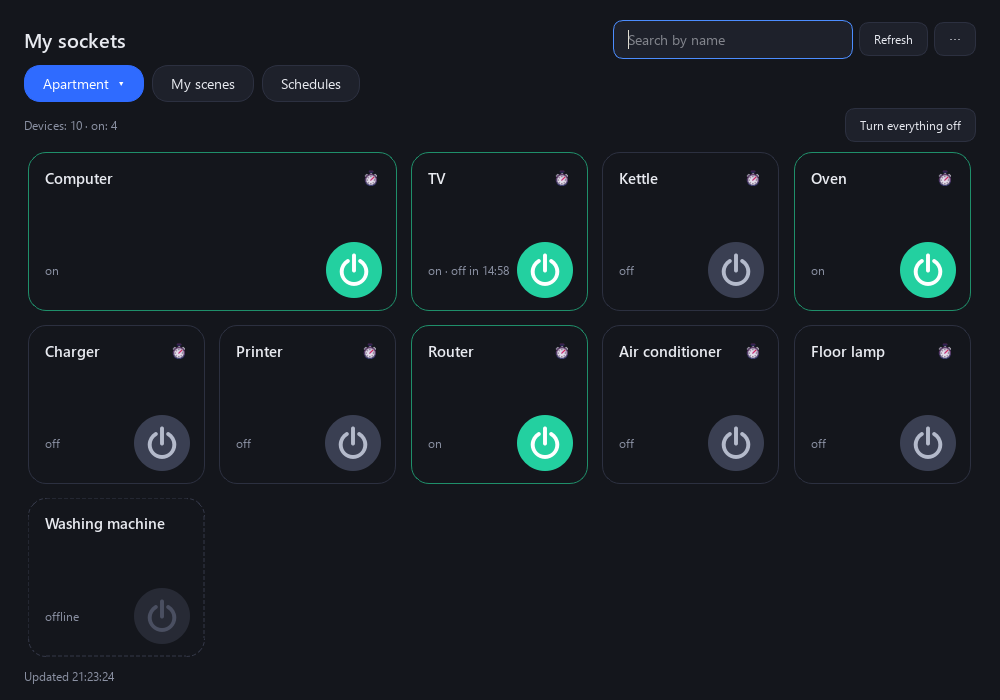
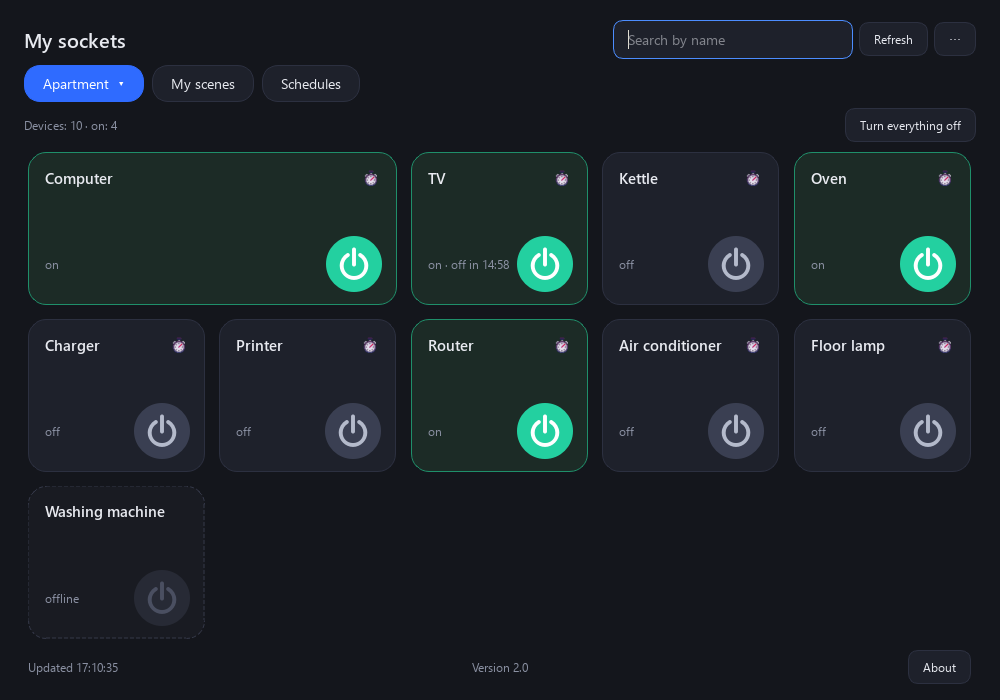
Страница Smart Life для Windows 2.0: что нового, серверный агент, свежие скриншоты

diff --git a/docs/smart-life.html b/docs/smart-life.html
@@ -129,7 +129,7 @@ button#copy{background:var(--accent);color:var(--accent-ink);border:0;border-rad
   </div>
 </footer>
 <script>
-var I18N = {"en": {"name": "Smart Life for Windows", "title": "Smart Life for Windows: control Smart Life (Tuya) sockets from a Windows window (free)", "h1": "Your Smart Life sockets in a Windows window", "lead": "Turn sockets on and off from your PC: sign in with a QR code (no password), tiles with a power button, several homes, timers, your own scenes and schedules. Free.", "dl": "Download for Windows", "gh": "View on GitHub", "back": "All programs", "dlnote": "Current version: 1.1. SmartLifeForWindows-1.1.exe. Free. Windows 10 and 11. Interface in English, Ukrainian and Russian.", "f_h": "What it does", "s_h": "How it looks", "st_h": "Getting started", "lm_h": "Limitations", "d_h": "Support the project", "d_p": "The program is free. If it is useful to you, you can support its development by card, Google Pay or USDT: the same donation page as for the other program on this site.", "d_btn": "Donation options", "c1": "Smart Life (Tuya) sockets from a window of your PC. The program is independent and not an official Tuya or Smart Life product.", "feats": [["QR sign-in", "No password: scan a QR code with the Smart Life app. The code is remembered."], ["Tiles with a power button", "Like in the phone app; wide tiles, drag to reorder, several homes, a separate window for each home."], ["Device window", "Click a tile: electricity (power, voltage, current, energy), socket timer, child lock, indicator light."], ["Timers", "Turn off in 15 minutes, 1 hour and so on, with a countdown on the tile."], ["Own scenes and schedules", "Several sockets in one click, or at a set time on chosen days."], ["Smart Life scenes", "Tap-to-run scenes from your phone app are shown and can be started."], ["Theme and language", "Auto (like Windows), light or dark theme; English, Ukrainian and Russian, by your Windows language or chosen by hand."], ["Important sockets", "Turning off a PC or router asks for confirmation."], ["Tray icon by the clock", "Favourite sockets, all sockets, “Turn everything off” and your scenes right from the tray menu; the program can start with Windows and stay in the tray."], ["Multi-channel sockets", "A socket or power strip with several channels (230 V and USB, sockets 1, 2, 3) shows a button per channel on the tile and in the device window."]], "steps": ["Download SmartLifeForWindows-1.1.exe and run it. The installer speaks your Windows language.", "On first start enter your user code (in the phone app: Me, gear icon, Account and Security, User code).", "Scan the QR code shown by the program: in Smart Life tap the scanner icon in the top corner.", "Choose your home with the button at the top and click the round button on a tile."], "lims": ["Own schedules and scenes work only while the program is running and the PC is awake. For round-the-clock work use automations inside Smart Life.", "Smart Life automations (by schedule or condition) are not given to third-party programs by Tuya: they are not shown here and keep working in the phone app.", "The order of cards in the phone app (for example Favorites) is stored inside that app and is not available: drag tiles to set your order.", "Sign-in by e-mail and password does not work for all accounts: use the QR code."], "smart": "The installer is not signed with a publisher certificate yet, so Windows may show a SmartScreen warning (\"unknown publisher\"): click \"More info\" and then \"Run anyway\" if you downloaded the file from here. The SHA-256 checksum is in the description of the release.", "note": "Smart Life for Windows is an independent project. Not affiliated with Tuya or Smart Life. Tuya and Smart Life are trademarks of their owners.", "f_rel": "All versions", "f_issue": "Report a problem", "f_src": "Source on GitHub", "f_contacts": "Contacts", "f_terms": "Terms and conditions", "f_refund": "Refund policy", "f_oferta": "Public offer", "star_btn": "⭐ Star on GitHub", "star_p": "A free way to help: put a star on the GitHub repository. It costs nothing and helps other people find the program."}, "uk": {"name": "Smart Life для Windows", "title": "Smart Life для Windows: керуйте розетками Smart Life (Tuya) з вікна Windows (безкоштовно)", "h1": "Ваші розетки Smart Life у вікні Windows", "lead": "Вмикайте й вимикайте розетки з комп’ютера: вхід за QR-кодом (без пароля), плитки з кнопкою живлення, кілька домів, таймери, власні сценарії та розклади. Безкоштовно.", "dl": "Завантажити для Windows", "gh": "Дивитися на GitHub", "back": "Усі програми", "dlnote": "Поточна версія: 1.1. SmartLifeForWindows-1.1.exe. Безкоштовно. Windows 10 і 11. Інтерфейс українською, російською та англійською.", "f_h": "Що вміє", "s_h": "Як виглядає", "st_h": "З чого почати", "lm_h": "Обмеження", "d_h": "Підтримати проєкт", "d_p": "Програма безкоштовна. Якщо вона вам корисна, можна підтримати розробку карткою, Google Pay або USDT: це та сама сторінка внесків, що й для іншої програми на цьому сайті.", "d_btn": "Способи підтримки", "c1": "Розетки Smart Life (Tuya) з вікна комп’ютера. Програма незалежна й не є офіційним продуктом Tuya чи Smart Life.", "feats": [["Вхід за QR", "Без пароля: скануйте QR-код застосунком Smart Life. Код запам’ятовується."], ["Плитки з кнопкою живлення", "Як у застосунку на телефоні; широкі плитки, перетягування, кілька домів, окреме вікно для кожного дому."], ["Вікно пристрою", "Клік по плитці: електрика (потужність, напруга, струм, енергія), таймер розетки, захист від дітей, підсвітка індикатора."], ["Таймери", "Вимкнути через 15 хвилин, 1 годину тощо, зі зворотним відліком на плитці."], ["Власні сценарії та розклади", "Кілька розеток одним кліком або в заданий час у вибрані дні."], ["Сценарії Smart Life", "Сценарії «натиснув і виконалося» з телефона видно й можна запускати."], ["Тема й мова", "Тема авто (як у Windows), світла або темна; українська, російська й англійська — за мовою Windows або вручну."], ["Важливі розетки", "Вимкнення ПК чи роутера запитує підтвердження."], ["Значок біля годинника (трей)", "Обрані розетки, усі розетки, «Вимкнути все» і власні сценарії прямо з меню біля годинника; програма може запускатися разом з Windows і жити в треї."], ["Складені розетки", "Розетка або подовжувач із кількома каналами (230 В і USB, розетки 1, 2, 3) мають кнопку на кожен канал на плитці та у вікні пристрою."]], "steps": ["Завантажте SmartLifeForWindows-1.1.exe й запустіть. Встановлювач говорить мовою Windows.", "Під час першого запуску введіть код користувача (у застосунку: Я, значок шестірні, Обліковий запис і безпека, Код користувача).", "Скануйте QR-код, який показує програма: у Smart Life натисніть значок сканера у верхньому куті.", "Оберіть дім кнопкою вгорі та натискайте круглу кнопку на плитці."], "lims": ["Власні розклади й сценарії працюють, лише поки програма запущена й комп’ютер не спить. Для цілодобової роботи користуйтеся автоматизаціями в самому Smart Life.", "Автоматизації Smart Life (за розкладом чи умовою) Tuya не віддає стороннім програмам: тут їх не видно, а в застосунку вони працюють як раніше.", "Порядок карток у застосунку (наприклад «Обране») зберігається всередині нього й недоступний: порядок плиток задається перетягуванням.", "Вхід за поштою й паролем працює не для всіх акаунтів: користуйтеся QR-кодом."], "smart": "Встановлювач ще не підписано сертифікатом видавця, тому Windows може показати попередження SmartScreen («невідомий видавець»): натисніть «Докладніше», потім «Все одно виконати», якщо ви завантажили файл звідси. Контрольну суму SHA-256 вказано в описі релізу.", "note": "Smart Life для Windows: незалежний проєкт. Не пов’язаний з Tuya чи Smart Life. Tuya і Smart Life є торговельними марками своїх власників.", "f_rel": "Усі версії", "f_issue": "Повідомити про проблему", "f_src": "Код на GitHub", "f_contacts": "Контакти", "f_terms": "Правила та умови", "f_refund": "Правила повернення коштів", "f_oferta": "Публічний договір", "star_btn": "⭐ Зірка на GitHub", "star_p": "Безкоштовний спосіб допомогти: поставте зірку репозиторію на GitHub. Це нічого не коштує й допомагає іншим знайти програму."}, "ru": {"name": "Smart Life для Windows", "title": "Smart Life для Windows: управляйте розетками Smart Life (Tuya) из окна Windows (бесплатно)", "h1": "Ваши розетки Smart Life в окне Windows", "lead": "Включайте и выключайте розетки с компьютера: вход по QR-коду (без пароля), плитки с кнопкой питания, несколько домов, таймеры, свои сценарии и расписания. Бесплатно.", "dl": "Скачать для Windows", "gh": "Смотреть на GitHub", "back": "Все программы", "dlnote": "Текущая версия: 1.1. SmartLifeForWindows-1.1.exe. Бесплатно. Windows 10 и 11. Интерфейс на русском, украинском и английском.", "f_h": "Что умеет", "s_h": "Как выглядит", "st_h": "С чего начать", "lm_h": "Ограничения", "d_h": "Поддержать проект", "d_p": "Программа бесплатная. Если она вам полезна, можно поддержать разработку картой, Google Pay или USDT: это та же страница взносов, что и для другой программы на этом сайте.", "d_btn": "Способы поддержки", "c1": "Розетки Smart Life (Tuya) из окна компьютера. Программа независимая и не является официальным продуктом Tuya или Smart Life.", "feats": [["Вход по QR", "Без пароля: отсканируйте QR-код приложением Smart Life. Код запоминается."], ["Плитки с кнопкой питания", "Как в приложении на телефоне; широкие плитки, перетаскивание, несколько домов, отдельное окно для каждого дома."], ["Окно устройства", "Клик по плитке: электричество (мощность, напряжение, ток, энергия), таймер розетки, защита от детей, подсветка индикатора."], ["Таймеры", "Выключить через 15 минут, 1 час и так далее, с обратным отсчётом на плитке."], ["Свои сценарии и расписания", "Несколько розеток одним кликом или в заданное время в выбранные дни."], ["Сценарии Smart Life", "Сценарии «нажал и выполнилось» из телефона видны и запускаются."], ["Тема и язык", "Тема авто (как в Windows), светлая или тёмная; русский, украинский и английский — по языку Windows или вручную."], ["Важные розетки", "Выключение ПК или роутера спрашивает подтверждение."], ["Значок у часов (трей)", "Избранные розетки, все розетки, «Выключить всё» и свои сценарии прямо из меню у часов; программа может запускаться вместе с Windows и жить в трее."], ["Составные розетки", "Розетка или удлинитель с несколькими каналами (230 В и USB, розетки 1, 2, 3): кнопка на каждый канал на плитке и в окне устройства."]], "steps": ["Скачайте SmartLifeForWindows-1.1.exe и запустите. Установщик говорит на языке Windows.", "При первом запуске введите код пользователя (в приложении: Я, значок шестерёнки, Учётная запись и безопасность, Код пользователя).", "Отсканируйте QR-код, который показывает программа: в Smart Life нажмите значок сканера в верхнем углу.", "Выберите дом кнопкой вверху и нажимайте круглую кнопку на плитке."], "lims": ["Свои расписания и сценарии работают, только пока программа запущена и компьютер не спит. Для круглосуточной работы используйте автоматизации в самом Smart Life.", "Автоматизации Smart Life (по расписанию или условию) Tuya не отдаёт сторонним программам: здесь их не видно, а в приложении они работают как раньше.", "Порядок карточек в приложении (например «Избранное») хранится внутри него и недоступен: порядок плиток задаётся перетаскиванием.", "Вход по почте и паролю работает не для всех аккаунтов: используйте QR-код."], "smart": "Установщик пока не подписан сертификатом издателя, поэтому Windows может показать предупреждение SmartScreen («неизвестный издатель»): нажмите «Подробнее», затем «Выполнить в любом случае», если вы скачали файл отсюда. Контрольная сумма SHA-256 указана в описании релиза.", "note": "Smart Life для Windows: независимый проект. Не связан с Tuya или Smart Life. Tuya и Smart Life являются торговыми марками своих владельцев.", "f_rel": "Все версии", "f_issue": "Сообщить о проблеме", "f_src": "Код на GitHub", "f_contacts": "Контакты", "f_terms": "Правила и условия", "f_refund": "Правила возврата средств", "f_oferta": "Публичный договор", "star_btn": "⭐ Звезда на GitHub", "star_p": "Бесплатный способ помочь: поставьте звезду репозиторию на GitHub. Это ничего не стоит и помогает другим найти программу."}};
+var I18N = {"en": {"name": "Smart Life for Windows", "title": "Smart Life for Windows: control Smart Life (Tuya) sockets from a Windows window (free)", "h1": "Your Smart Life sockets in a Windows window", "lead": "Turn sockets on and off from your PC: sign in with a QR code (no password), tiles with a power button, several homes, timers, your own scenes and schedules. Free.", "dl": "Download for Windows", "gh": "View on GitHub", "back": "All programs", "dlnote": "Current version: 2.0. SmartLifeForWindows-2.0.exe. Free. Windows 10 and 11. Interface in English, Ukrainian and Russian.", "f_h": "What it does", "s_h": "How it looks", "st_h": "Getting started", "lm_h": "Limitations", "d_h": "Support the project", "d_p": "The program is free. If it is useful to you, you can support its development by card, Google Pay or USDT: the same donation page as for the other program on this site.", "d_btn": "Donation options", "c1": "Smart Life (Tuya) sockets from a window of your PC. The program is independent and not an official Tuya or Smart Life product.", "feats": [["QR sign-in", "No password: scan a QR code with the Smart Life app. The code is remembered."], ["Tiles with a power button", "Like in the phone app; wide tiles, drag to reorder, several homes, a separate window for each home."], ["Device window", "Click a tile: electricity (power, voltage, current, energy), socket timer, child lock, indicator light."], ["Timers", "Turn off in 15 minutes, 1 hour and so on, with a countdown on the tile."], ["Own scenes and schedules", "Several sockets in one click, or at a set time on chosen days."], ["Smart Life scenes", "Tap-to-run scenes from your phone app are shown and can be started."], ["Theme and language", "Auto (like Windows), light or dark theme; English, Ukrainian and Russian, by your Windows language or chosen by hand."], ["Important sockets", "Turning off a PC or router asks for confirmation."], ["Tray icon by the clock", "Favourite sockets, all sockets, “Turn everything off” and your scenes right from the tray menu; the program can start with Windows and stay in the tray."], ["Multi-channel sockets", "A socket or power strip with several channels (230 V and USB, sockets 1, 2, 3) shows a button per channel on the tile and in the device window."], ["Device codes and energy", "A table that assigns power, voltage, current and energy for any device; consumption for a day, 7 and 30 days, cost and power protection."], ["Shortcuts and notifications", "Desktop shortcuts for sockets and scenes with a result message; Windows notifications."], ["Server agent", "Schedules, scenes and power protection keep working while the computer is off: on any server or mini computer."]], "steps": ["Download SmartLifeForWindows-2.0.exe and run it. The installer speaks your Windows language.", "On first start enter your user code (in the phone app: Me, gear icon, Account and Security, User code).", "Scan the QR code shown by the program: in Smart Life tap the scanner icon in the top corner.", "Choose your home with the button at the top and click the round button on a tile."], "lims": ["Own schedules and scenes work only while the program is running and the PC is awake. For round-the-clock work use the server agent (the Server folder) or automations inside Smart Life.", "Smart Life automations (by schedule or condition) are not given to third-party programs by Tuya: they are not shown here and keep working in the phone app.", "The order of cards in the phone app (for example Favorites) is stored inside that app and is not available: drag tiles to set your order.", "Sign-in by e-mail and password does not work for all accounts: use the QR code."], "smart": "The installer is not signed with a publisher certificate yet, so Windows may show a SmartScreen warning (\"unknown publisher\"): click \"More info\" and then \"Run anyway\" if you downloaded the file from here. The SHA-256 checksum is in the description of the release.", "note": "Smart Life for Windows is an independent project. Not affiliated with Tuya or Smart Life. Tuya and Smart Life are trademarks of their owners.", "f_rel": "All versions", "f_issue": "Report a problem", "f_src": "Source on GitHub", "f_contacts": "Contacts", "f_terms": "Terms and conditions", "f_refund": "Refund policy", "f_oferta": "Public offer", "star_btn": "⭐ Star on GitHub", "star_p": "A free way to help: put a star on the GitHub repository. It costs nothing and helps other people find the program."}, "uk": {"name": "Smart Life для Windows", "title": "Smart Life для Windows: керуйте розетками Smart Life (Tuya) з вікна Windows (безкоштовно)", "h1": "Ваші розетки Smart Life у вікні Windows", "lead": "Вмикайте й вимикайте розетки з комп’ютера: вхід за QR-кодом (без пароля), плитки з кнопкою живлення, кілька домів, таймери, власні сценарії та розклади. Безкоштовно.", "dl": "Завантажити для Windows", "gh": "Дивитися на GitHub", "back": "Усі програми", "dlnote": "Поточна версія: 2.0. SmartLifeForWindows-2.0.exe. Безкоштовно. Windows 10 і 11. Інтерфейс українською, російською та англійською.", "f_h": "Що вміє", "s_h": "Як виглядає", "st_h": "З чого почати", "lm_h": "Обмеження", "d_h": "Підтримати проєкт", "d_p": "Програма безкоштовна. Якщо вона вам корисна, можна підтримати розробку карткою, Google Pay або USDT: це та сама сторінка внесків, що й для іншої програми на цьому сайті.", "d_btn": "Способи підтримки", "c1": "Розетки Smart Life (Tuya) з вікна комп’ютера. Програма незалежна й не є офіційним продуктом Tuya чи Smart Life.", "feats": [["Вхід за QR", "Без пароля: скануйте QR-код застосунком Smart Life. Код запам’ятовується."], ["Плитки з кнопкою живлення", "Як у застосунку на телефоні; широкі плитки, перетягування, кілька домів, окреме вікно для кожного дому."], ["Вікно пристрою", "Клік по плитці: електрика (потужність, напруга, струм, енергія), таймер розетки, захист від дітей, підсвітка індикатора."], ["Таймери", "Вимкнути через 15 хвилин, 1 годину тощо, зі зворотним відліком на плитці."], ["Власні сценарії та розклади", "Кілька розеток одним кліком або в заданий час у вибрані дні."], ["Сценарії Smart Life", "Сценарії «натиснув і виконалося» з телефона видно й можна запускати."], ["Тема й мова", "Тема авто (як у Windows), світла або темна; українська, російська й англійська — за мовою Windows або вручну."], ["Важливі розетки", "Вимкнення ПК чи роутера запитує підтвердження."], ["Значок біля годинника (трей)", "Обрані розетки, усі розетки, «Вимкнути все» і власні сценарії прямо з меню біля годинника; програма може запускатися разом з Windows і жити в треї."], ["Складені розетки", "Розетка або подовжувач із кількома каналами (230 В і USB, розетки 1, 2, 3) мають кнопку на кожен канал на плитці та у вікні пристрою."], ["Коди пристрою та енергія", "Таблиця призначення потужності, напруги, струму й енергії для будь-яких пристроїв; витрата за день, 7 і 30 днів, вартість і захист за потужністю."], ["Ярлики та сповіщення", "Ярлики на робочий стіл для розеток і сценаріїв із повідомленням про результат; сповіщення Windows."], ["Серверний агент", "Розклади, сценарії та захист за потужністю працюють при вимкненому комп’ютері: на будь-якому сервері чи міні-комп’ютері."]], "steps": ["Завантажте SmartLifeForWindows-2.0.exe й запустіть. Встановлювач говорить мовою Windows.", "Під час першого запуску введіть код користувача (у застосунку: Я, значок шестірні, Обліковий запис і безпека, Код користувача).", "Скануйте QR-код, який показує програма: у Smart Life натисніть значок сканера у верхньому куті.", "Оберіть дім кнопкою вгорі та натискайте круглу кнопку на плитці."], "lims": ["Власні розклади й сценарії працюють, лише поки програма запущена й комп’ютер не спить. Для цілодобової роботи користуйтеся серверним агентом (тека «Сервер») або автоматизаціями в самому Smart Life.", "Автоматизації Smart Life (за розкладом чи умовою) Tuya не віддає стороннім програмам: тут їх не видно, а в застосунку вони працюють як раніше.", "Порядок карток у застосунку (наприклад «Обране») зберігається всередині нього й недоступний: порядок плиток задається перетягуванням.", "Вхід за поштою й паролем працює не для всіх акаунтів: користуйтеся QR-кодом."], "smart": "Встановлювач ще не підписано сертифікатом видавця, тому Windows може показати попередження SmartScreen («невідомий видавець»): натисніть «Докладніше», потім «Все одно виконати», якщо ви завантажили файл звідси. Контрольну суму SHA-256 вказано в описі релізу.", "note": "Smart Life для Windows: незалежний проєкт. Не пов’язаний з Tuya чи Smart Life. Tuya і Smart Life є торговельними марками своїх власників.", "f_rel": "Усі версії", "f_issue": "Повідомити про проблему", "f_src": "Код на GitHub", "f_contacts": "Контакти", "f_terms": "Правила та умови", "f_refund": "Правила повернення коштів", "f_oferta": "Публічний договір", "star_btn": "⭐ Зірка на GitHub", "star_p": "Безкоштовний спосіб допомогти: поставте зірку репозиторію на GitHub. Це нічого не коштує й допомагає іншим знайти програму."}, "ru": {"name": "Smart Life для Windows", "title": "Smart Life для Windows: управляйте розетками Smart Life (Tuya) из окна Windows (бесплатно)", "h1": "Ваши розетки Smart Life в окне Windows", "lead": "Включайте и выключайте розетки с компьютера: вход по QR-коду (без пароля), плитки с кнопкой питания, несколько домов, таймеры, свои сценарии и расписания. Бесплатно.", "dl": "Скачать для Windows", "gh": "Смотреть на GitHub", "back": "Все программы", "dlnote": "Текущая версия: 2.0. SmartLifeForWindows-2.0.exe. Бесплатно. Windows 10 и 11. Интерфейс на русском, украинском и английском.", "f_h": "Что умеет", "s_h": "Как выглядит", "st_h": "С чего начать", "lm_h": "Ограничения", "d_h": "Поддержать проект", "d_p": "Программа бесплатная. Если она вам полезна, можно поддержать разработку картой, Google Pay или USDT: это та же страница взносов, что и для другой программы на этом сайте.", "d_btn": "Способы поддержки", "c1": "Розетки Smart Life (Tuya) из окна компьютера. Программа независимая и не является официальным продуктом Tuya или Smart Life.", "feats": [["Вход по QR", "Без пароля: отсканируйте QR-код приложением Smart Life. Код запоминается."], ["Плитки с кнопкой питания", "Как в приложении на телефоне; широкие плитки, перетаскивание, несколько домов, отдельное окно для каждого дома."], ["Окно устройства", "Клик по плитке: электричество (мощность, напряжение, ток, энергия), таймер розетки, защита от детей, подсветка индикатора."], ["Таймеры", "Выключить через 15 минут, 1 час и так далее, с обратным отсчётом на плитке."], ["Свои сценарии и расписания", "Несколько розеток одним кликом или в заданное время в выбранные дни."], ["Сценарии Smart Life", "Сценарии «нажал и выполнилось» из телефона видны и запускаются."], ["Тема и язык", "Тема авто (как в Windows), светлая или тёмная; русский, украинский и английский — по языку Windows или вручную."], ["Важные розетки", "Выключение ПК или роутера спрашивает подтверждение."], ["Значок у часов (трей)", "Избранные розетки, все розетки, «Выключить всё» и свои сценарии прямо из меню у часов; программа может запускаться вместе с Windows и жить в трее."], ["Составные розетки", "Розетка или удлинитель с несколькими каналами (230 В и USB, розетки 1, 2, 3): кнопка на каждый канал на плитке и в окне устройства."], ["Коды устройства и энергия", "Таблица назначения мощности, напряжения, тока и энергии для любых устройств; расход за день, 7 и 30 дней, стоимость и защита по мощности."], ["Ярлыки и уведомления", "Ярлыки на рабочий стол для розеток и сценариев с сообщением о результате; уведомления Windows."], ["Серверный агент", "Расписания, сценарии и защита по мощности работают при выключенном компьютере: на любом сервере или мини-компьютере."]], "steps": ["Скачайте SmartLifeForWindows-2.0.exe и запустите. Установщик говорит на языке Windows.", "При первом запуске введите код пользователя (в приложении: Я, значок шестерёнки, Учётная запись и безопасность, Код пользователя).", "Отсканируйте QR-код, который показывает программа: в Smart Life нажмите значок сканера в верхнем углу.", "Выберите дом кнопкой вверху и нажимайте круглую кнопку на плитке."], "lims": ["Свои расписания и сценарии работают, только пока программа запущена и компьютер не спит. Для круглосуточной работы используйте серверный агент (папка «Сервер») или автоматизации в самом Smart Life.", "Автоматизации Smart Life (по расписанию или условию) Tuya не отдаёт сторонним программам: здесь их не видно, а в приложении они работают как раньше.", "Порядок карточек в приложении (например «Избранное») хранится внутри него и недоступен: порядок плиток задаётся перетаскиванием.", "Вход по почте и паролю работает не для всех аккаунтов: используйте QR-код."], "smart": "Установщик пока не подписан сертификатом издателя, поэтому Windows может показать предупреждение SmartScreen («неизвестный издатель»): нажмите «Подробнее», затем «Выполнить в любом случае», если вы скачали файл отсюда. Контрольная сумма SHA-256 указана в описании релиза.", "note": "Smart Life для Windows: независимый проект. Не связан с Tuya или Smart Life. Tuya и Smart Life являются торговыми марками своих владельцев.", "f_rel": "Все версии", "f_issue": "Сообщить о проблеме", "f_src": "Код на GitHub", "f_contacts": "Контакты", "f_terms": "Правила и условия", "f_refund": "Правила возврата средств", "f_oferta": "Публичный договор", "star_btn": "⭐ Звезда на GitHub", "star_p": "Бесплатный способ помочь: поставьте звезду репозиторию на GitHub. Это ничего не стоит и помогает другим найти программу."}};
 function esc(s){return String(s).replace(/&/g,"&amp;").replace(/</g,"&lt;")}
 function setLang(l){
   var d = I18N[l] || I18N.en;
